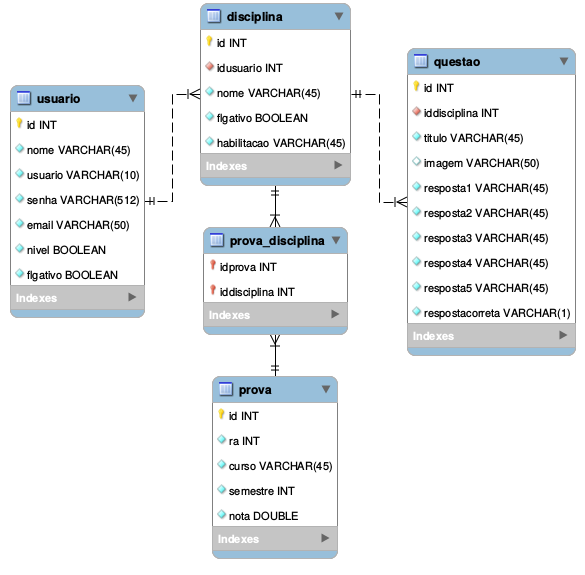
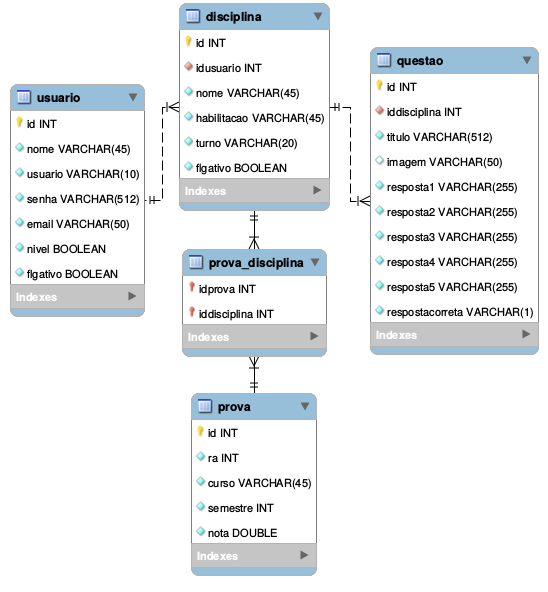
Correções e novo MER

Changed region(s): [[0.0, 0.0, 0.9927, 0.9757]]

diff --git a/Professor/cadastraquestoes.php b/Professor/cadastraquestoes.php
@@ -2,9 +2,9 @@
 
 /*// A sessão precisa ser iniciada em cada página diferente
     if (!isset($_SESSION)) session_start();
-      
+
     $nivel_necessario = 2;  // 2 é o nível Professor
-      
+
     // Verifica se não há a variável da sessão que identifica o usuário
     if (!isset($_SESSION['UsuarioID']) OR ($_SESSION['UsuarioNivel'] !=$nivel_necessario)) {
          echo "<script> alert('Você precisa estar logado para acessar essa página');</script>";
@@ -25,24 +25,18 @@ include('../classes/class_questao.php');
 </head>
 <body>
 		<form id="questcad" action="cadastraquestoes.php" method="post">
-			<label for="habilita">Habilitação em:
-			<input required="" id="habilita" type="radio" name="habilita" value="rtv"> RTV 
-			<input required="" id="habilita" type="radio" name="habilita" value="pp"> PP <br/>
-			</label>
-			<label for="turno">Turno:
-			<input id="turno" required="" type="radio" name="turno" value="diurno"> Diurno 
-			<input id="turno" required="" type="radio" name="turno" value="noturno"> Noturno <br/>
-			</label>
 			<label for="disciplina">Disciplina: </label>
 			<select required="" name="disciplina" id="disciplina" >
 			<?php
-			
+
 			$x = new disciplina();
 			$retorno = $x->selectAtivo($PDO);
 			foreach ($retorno as $key) {
-    			
+
 			?>
-			<option value="<?php echo $key['id'];?>" ><?php echo $key['nome'];?></option>
+			<option value="<?php echo $key['id'];?>" >
+        <?php echo $key['nome']." - ".$key['habilitacao']." - ".$key['turno'];?>
+      </option>
 			<?php
 		}
 		?>
@@ -79,8 +73,6 @@ include('../classes/class_questao.php');
 
 if(isset($_POST['envia'])){
 
-		$habilitacao = $_POST['habilita'];
-		$turno = $_POST['turno'];
 		$disciplina = $_POST['disciplina'];
 		$titulo = $_POST['titulo'];
 		$resp1 = $_POST['resp1'];
@@ -92,19 +84,12 @@ if(isset($_POST['envia'])){
 
 		$x = new questao();
 		$cadastraquestao = $x->registrarQuestoes($PDO,$disciplina, $titulo, $resp1, $resp2, $resp3, $resp4, $resp5, $respcorreta);
-	
+
 }
 
-	
+
 
 ?>
 
 </body>
 </html>
-
-
-
-
-
-
-
